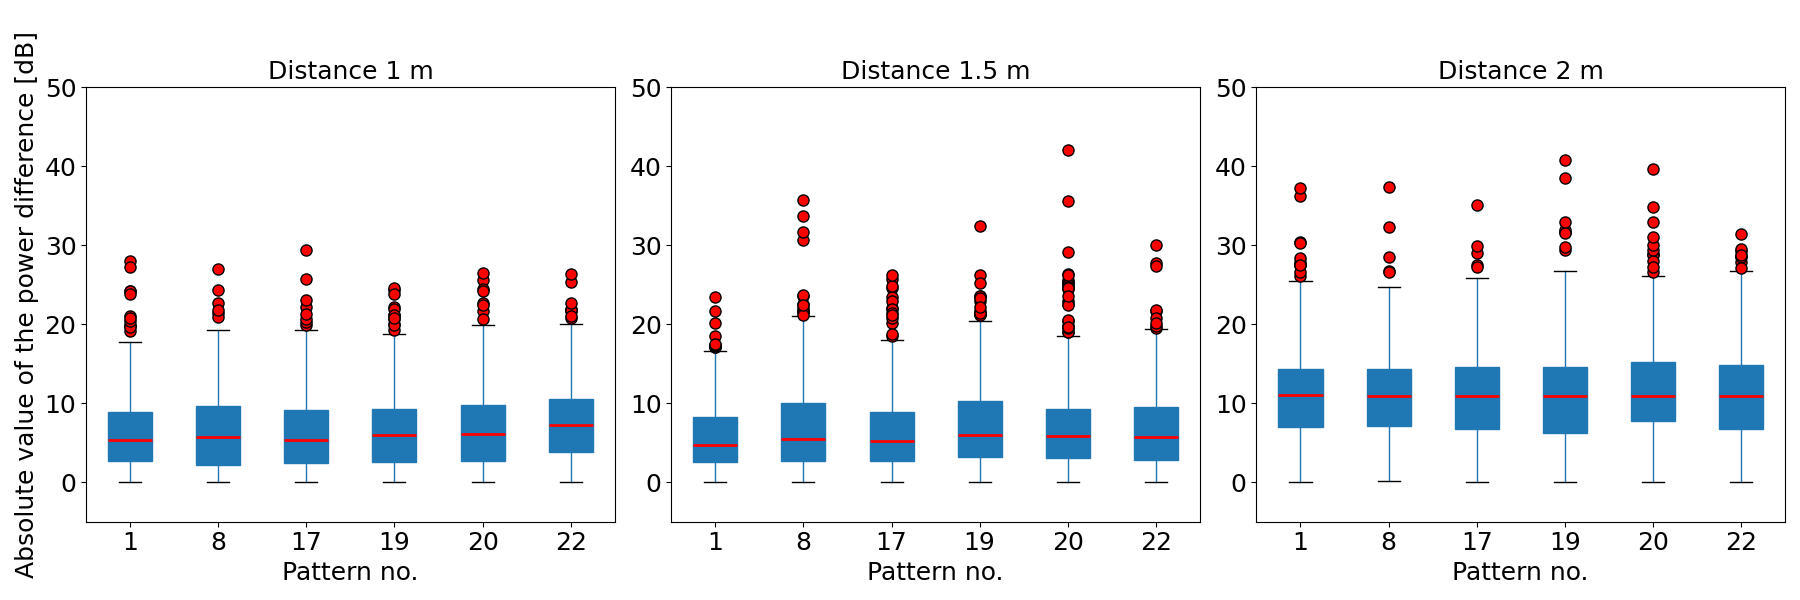
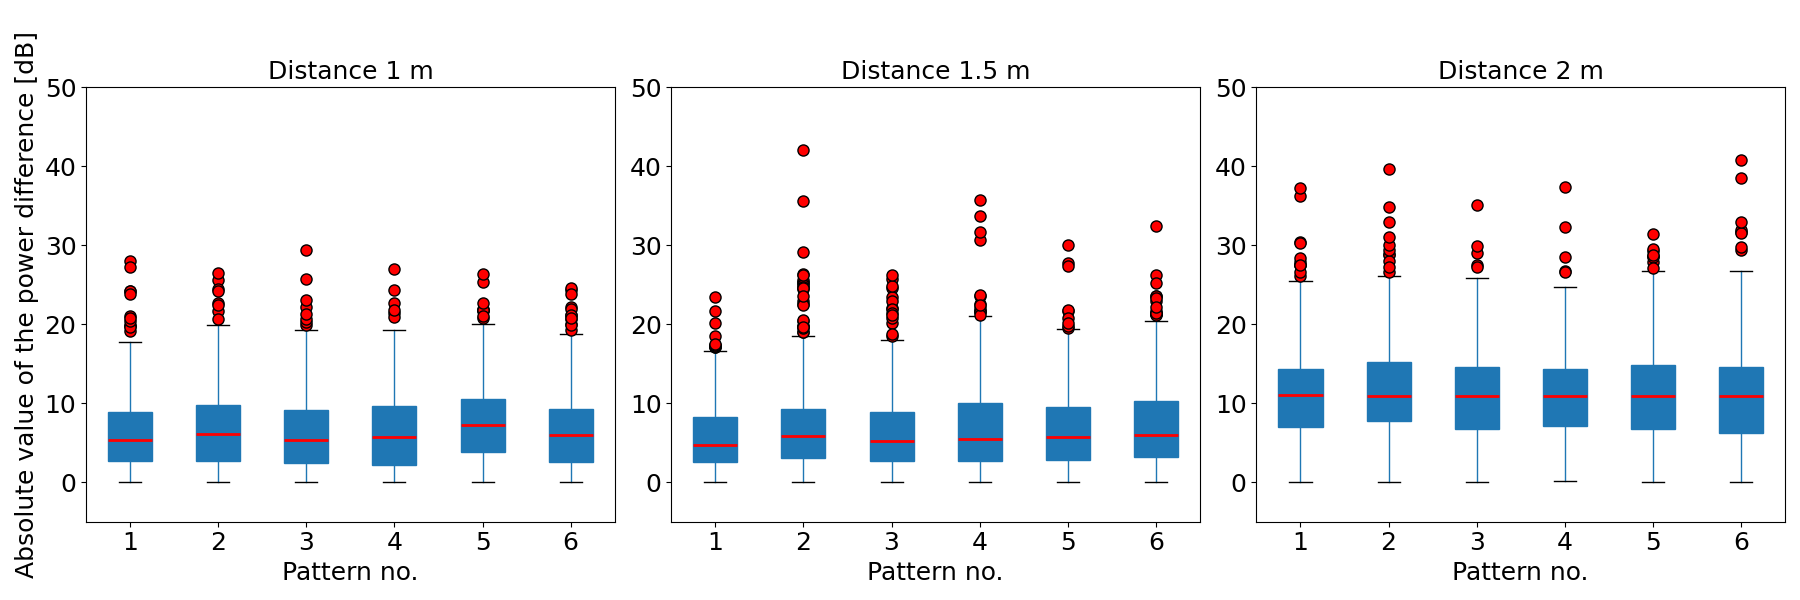
Boxplot article

diff --git a/Box_Plot/boxplot_aritcle.py b/Box_Plot/boxplot_aritcle.py
@@ -1,0 +1,124 @@
+import os
+import pandas as pd
+import matplotlib.pyplot as plt
+
+
+# Funkcja do tworzenia subplotów wykresów pudełkowych
+def tworz_subploty_wykresow(plik_csv_lista, wybrane_patterny, folder_wynikowy):
+    # Mapa, która przypisuje oryginalnym patternom (np. 1, 20, 17, 8, 22, 19)
+    # nowe wartości w zakresie 1–6 (lub według potrzeb)
+    pattern_mapping = {
+        1: 1,
+        20: 2,
+        17: 3,
+        8: 4,
+        22: 5,
+        19: 6,
+    }
+
+    # Podziel pliki na grupy po 3
+    title = ["Distance 1 m", "Distance 1.5 m", "Distance 2 m"]
+    grupy = [plik_csv_lista[i : i + 3] for i in range(0, len(plik_csv_lista), 3)]
+
+    # Zmienna do przechowywania zakresu Y
+    min_moc = float("inf")
+    max_moc = float("-inf")
+
+    # Najpierw obliczamy minimalną i maksymalną wartość dla mocy we wszystkich plikach
+    for plik_csv in plik_csv_lista:
+        kolumny = ["kąt1", "kąt2", "pattern", "częstotliwość", "moc"]
+        df = pd.read_csv(plik_csv, delimiter=";", names=kolumny)
+
+        # Wybierz tylko interesujące nas patterny
+        df_wybrane = df[df["pattern"].isin(wybrane_patterny)]
+
+        # Zaktualizuj zakres mocy
+        min_moc = min(min_moc, df_wybrane["moc"].min())
+        max_moc = max(max_moc, df_wybrane["moc"].max())
+
+    # Teraz, gdy mamy zakres Y, możemy utworzyć wykresy
+    for indeks, grupa in enumerate(grupy):
+        plt.figure(figsize=(18, 6))
+
+        for i, plik_csv in enumerate(grupa):
+            # Wczytaj dane z pliku CSV
+            kolumny = ["kąt1", "kąt2", "pattern", "częstotliwość", "moc"]
+            df = pd.read_csv(plik_csv, delimiter=";", names=kolumny)
+
+            # Wybierz tylko interesujące nas patterny
+            df_wybrane = df[df["pattern"].isin(wybrane_patterny)].copy()
+
+            # Dodaj kolumnę z "nową" numeracją patternów 1–6 (zamiast oryginalnych)
+            df_wybrane["pattern_custom"] = df_wybrane["pattern"].map(pattern_mapping)
+
+            # Dodaj wykres do odpowiedniego subplota
+            ax = plt.subplot(1, 3, i + 1)
+            df_wybrane.boxplot(
+                column="moc",
+                by="pattern_custom",  # klucz: korzystamy z nowo utworzonej kolumny
+                grid=False,
+                patch_artist=True,
+                ax=ax,
+                flierprops=dict(marker="o", markerfacecolor="red", markersize=8),
+                medianprops=dict(color="red", linewidth=2),
+            )
+
+            # Wypełnienie pudełek kolorem niebieskim
+            for box in ax.artists:
+                box.set_facecolor("blue")
+
+            # Ustaw stałą skalę osi Y (dostosuj wg potrzeb)
+            ax.set_ylim(-5, 50)
+
+            # Dostosowanie czcionek
+            ax.tick_params(axis="x", labelsize=18)  # Czcionka dla osi X
+            ax.tick_params(axis="y", labelsize=18)  # Czcionka dla osi Y
+
+            # Dostosowanie tytułów
+            ax.set_title(f"{title[i]}", fontsize=18)
+            ax.set_xlabel("Pattern no.", fontsize=18)  # Etykieta osi X
+
+            # Dodaj opis osi Y tylko do pierwszego subplota
+            if i == 0:
+                ax.set_ylabel(
+                    "Absolute value of the power difference [dB]", fontsize=18
+                )
+            else:
+                ax.set_ylabel("")  # Usuń opis osi Y dla pozostałych subplotów
+
+            # Usuwamy domyślny tytuł, który boxplot sam dodaje
+            plt.suptitle("", fontsize=16)
+
+        # Przygotowanie ścieżki zapisu
+        nazwa_wykresu = f"group_{indeks + 1}.png"
+        sciezka_zapisu = os.path.join(folder_wynikowy, nazwa_wykresu)
+
+        # Zapisanie wykresu
+        os.makedirs(folder_wynikowy, exist_ok=True)
+        plt.tight_layout(rect=[0, 0, 1, 0.95])
+        plt.savefig(sciezka_zapisu)
+        plt.close()
+
+
+# Ścieżki do plików CSV
+plik_csv_lista = [
+    r"/Users/pawelplaczkiewicz/Documents/Dokumenty – Mac mini (Paweł)/GitHub/Python_RIS/Dane_różnicowe/results_nowe_komora/wynik_1m.csv",
+    r"/Users/pawelplaczkiewicz/Documents/Dokumenty – Mac mini (Paweł)/GitHub/Python_RIS/Dane_różnicowe/results_nowe_komora/wynik_1_5m.csv",
+    r"/Users/pawelplaczkiewicz/Documents/Dokumenty – Mac mini (Paweł)/GitHub/Python_RIS/Dane_różnicowe/results_nowe_komora/wynik_2m.csv",
+    r"/Users/pawelplaczkiewicz/Documents/Dokumenty – Mac mini (Paweł)/GitHub/Python_RIS/Dane_różnicowe/results_nowe_stare_anteny/wynik_1m.csv",
+    r"/Users/pawelplaczkiewicz/Documents/Dokumenty – Mac mini (Paweł)/GitHub/Python_RIS/Dane_różnicowe/results_nowe_stare_anteny/wynik_1_5m.csv",
+    r"/Users/pawelplaczkiewicz/Documents/Dokumenty – Mac mini (Paweł)/GitHub/Python_RIS/Dane_różnicowe/results_nowe_stare_anteny/wynik_2m.csv",
+    r"/Users/pawelplaczkiewicz/Documents/Dokumenty – Mac mini (Paweł)/GitHub/Python_RIS/Dane_różnicowe/results_stare_komora/wynik_1m.csv",
+    r"/Users/pawelplaczkiewicz/Documents/Dokumenty – Mac mini (Paweł)/GitHub/Python_RIS/Dane_różnicowe/results_stare_komora/wynik_1_5m.csv",
+    r"/Users/pawelplaczkiewicz/Documents/Dokumenty – Mac mini (Paweł)/GitHub/Python_RIS/Dane_różnicowe/results_stare_komora/wynik_2m.csv",
+    # Dodaj więcej ścieżek do plików CSV tutaj
+]
+
+# Folder wynikowy
+folder_wynikowy = "/Users/pawelplaczkiewicz/Documents/Dokumenty – Mac mini (Paweł)/GitHub/Python_RIS/box_plot_results_merge"
+
+# Wybrane patterny
+wybrane_patterny = [1, 20, 17, 8, 22, 19]
+
+# Tworzenie subplotów wykresów dla grup plików CSV
+tworz_subploty_wykresow(plik_csv_lista, wybrane_patterny, folder_wynikowy)
